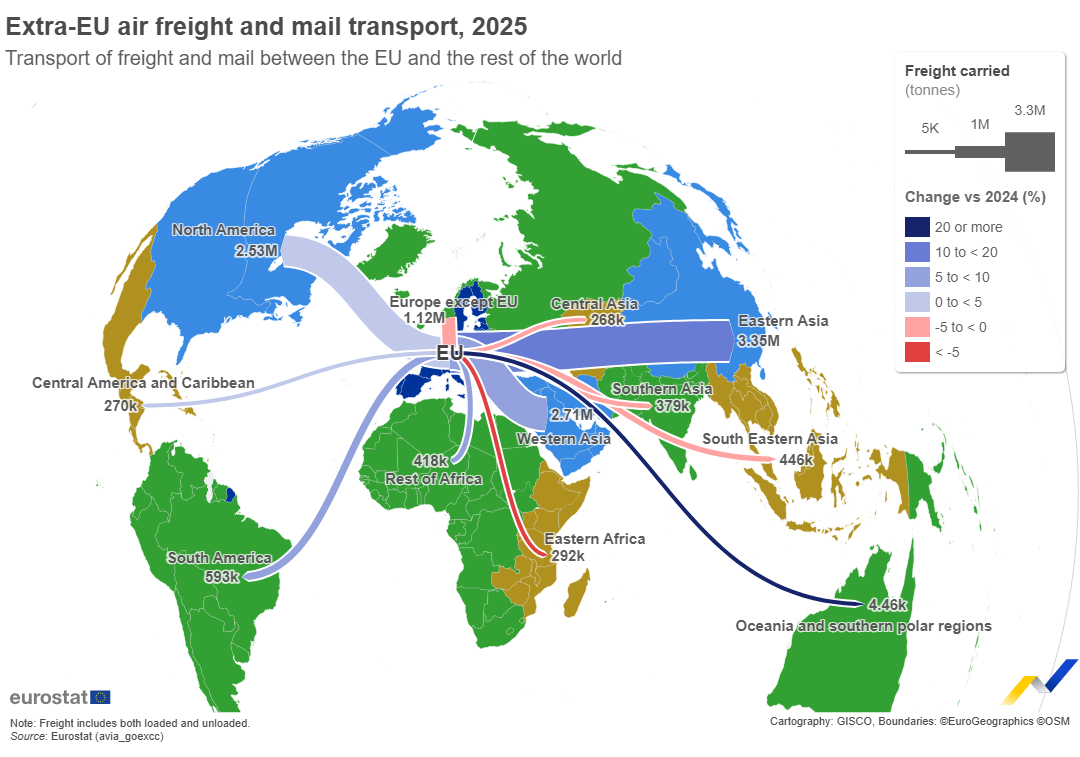
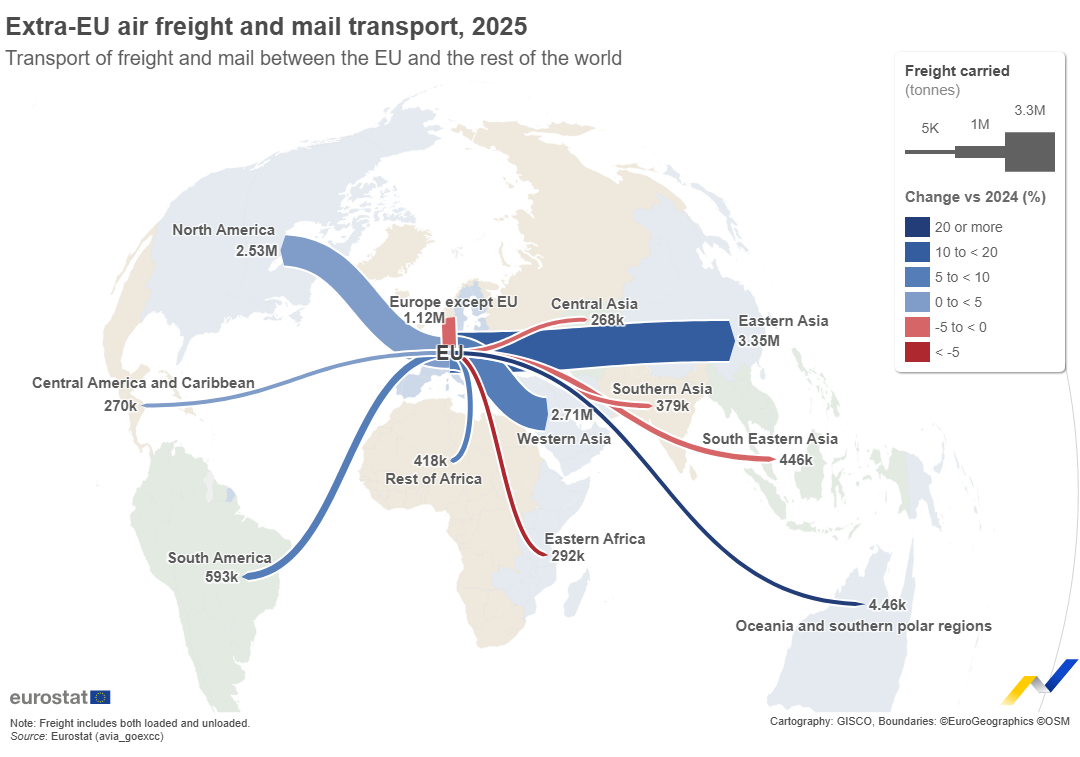
Improve visual hierarchy of 2026 air transport maps

diff --git a/examples/statistics-explained/transport/air/freight/2026/index.html b/examples/statistics-explained/transport/air/freight/2026/index.html
@@ -28,6 +28,7 @@
         <script src="../../../../d3.v7.min.js"></script>
         <script src="./regionLabels.js"></script>
         <script src="./regions.js"></script>
+        <script src="../../regional-palette.js"></script>
         <script src="./configs.js"></script>
         <script>
             const year = 2025
@@ -50,28 +51,9 @@
             fetch(`./airFreightGraph${year}.json`)
                 .then((r) => r.json())
                 .then((graphData) => {
-                    const greys = ['#D3D3D3', '#A9A9A9', '#808080', '#696969', '#36454F'] // Light Gray, Dark Gray: #808080, Dim Gray: #696969, Charcoal: #36454F
-                    const fourColorTheorem = [
-                        '#388AE2', // blue
-                        '#B09120', // yellow
-                        '#33A033', // green
-                        '#E04040', // red
-                    ]
-                    const regionColors = {
-                        'north america': fourColorTheorem[0],
-                        'central america and caribbean': fourColorTheorem[1],
-                        'south america': fourColorTheorem[2],
-                        'eastern africa': fourColorTheorem[1],
-                        'rest of africa': fourColorTheorem[2],
-                        'western asia': fourColorTheorem[0],
-                        'southern asia': fourColorTheorem[2],
-                        'central asia': fourColorTheorem[1],
-                        'eastern asia': fourColorTheorem[0],
-                        'south eastern asia': fourColorTheorem[1],
-                        'Oceania and southern polar regions': fourColorTheorem[2],
-                        EU: '#003399',
-                        'europe except eu': fourColorTheorem[2],
-                    }
+                    const regionByCountry = new Map(
+                        Object.entries(regions).flatMap(([region, codes]) => codes.map((code) => [code, region.toLowerCase()]))
+                    )
 
                     const valuesLabelFormatter = d3.format('.3~s')
 
@@ -177,7 +159,7 @@
                                 return colorFunction(parseChangeToPct(d.target.change))
                             },
                         })
-                        .flowSettings({ opacity: 1, arrows: false, arrowScale: 0.7, outlines: true, outlineWidth: 2, outlineColor: 'white', colorGradient: false, widthGradient: false, topLocations: 0, stack: false })
+                        .flowSettings({ opacity: 1, arrows: false, outlines: true, outlineWidth: 2, outlineColor: 'white', colorGradient: false, widthGradient: false, topLocations: 0, stack: false })
                         //only for when stacked
                         // .flowOrder((a, b) => {
                         //     console.log(a, b);
@@ -222,6 +204,7 @@
                             x: width - 185,
                             y: 50,
                             boxPadding: 10,
+                            boxOpacity: 1,
                             title: 'Freight carried',
                             subtitle: '(tonnes)',
                             flowWidthLegend: {
@@ -259,13 +242,7 @@
                         .callback(() => {
                             // set fill of regions
                             const countries = d3.selectAll('#air-freight-map .em-worldrg path')
-                            countries.style('fill', (d) => {
-                                for (const [regionName, codes] of Object.entries(regions)) {
-                                    if (codes.includes(d.properties.id)) {
-                                        return regionColors[regionName]
-                                    }
-                                }
-                            })
+                            countries.style('fill', (d) => regionalColors[regionByCountry.get(d.properties.id)] ?? '#efefef')
                             // raise labels (fixed in next version of estatmap)
                             const labels = d3.selectAll('#em-labels')
                             labels.raise()

diff --git a/examples/statistics-explained/transport/air/passengers/2026/index.html b/examples/statistics-explained/transport/air/passengers/2026/index.html
@@ -28,6 +28,7 @@
         <script src="../../../../d3.v7.min.js"></script>
         <script src="./regionLabels.js"></script>
         <script src="./regions.js"></script>
+        <script src="../../regional-palette.js"></script>
         <script src="./configs.js"></script>
         <script>
             const year = 2025
@@ -50,29 +51,9 @@
             fetch(`./passengersGraph${year}.json`)
                 .then((r) => r.json())
                 .then((graphData) => {
-                    const greys = ['#D3D3D3', '#A9A9A9', '#808080', '#696969', '#36454F']
-                    const fourColorTheorem = [
-                        '#C8D4DC', // dusty blue-grey
-                        '#D4CCBC', // warm greige
-                        '#C4D0C4', // sage grey
-                        '#D4C8C8', // blush grey
-                    ]
-                    const regionColors = {
-                        'north america': fourColorTheorem[0],
-                        'central america and caribbean': fourColorTheorem[1],
-                        'south america': fourColorTheorem[2],
-                        'eastern africa': fourColorTheorem[0],
-                        'north africa': fourColorTheorem[2],
-                        'rest of africa': fourColorTheorem[1],
-                        'western asia': fourColorTheorem[0],
-                        'southern asia': fourColorTheorem[2],
-                        'central asia': fourColorTheorem[1],
-                        'eastern asia': fourColorTheorem[0],
-                        'South Eastern Asia': fourColorTheorem[1],
-                        'Oceania and southern polar regions': fourColorTheorem[2],
-                        EU: '#8099CC',
-                        'europe except eu': fourColorTheorem[2],
-                    }
+                    const regionByCountry = new Map(
+                        Object.entries(regions).flatMap(([region, codes]) => codes.map((code) => [code, region.toLowerCase()]))
+                    )
 
                     const valuesLabelFormatter = d3.format('.3~s')
 
@@ -176,13 +157,14 @@
                                 return colorFunction(parseChangeToPct(d.target.change))
                             },
                         })
-                        .flowSettings({ opacity: 0.9, arrows: true, arrowScale: 0.7, outlines: true, outlineWidth: 2, outlineColor: 'white', colorGradient: false, widthGradient: false, topLocations: 0, stack: false, nodes: false })
+                        .flowSettings({ opacity: 0.9, arrows: false, outlines: true, outlineWidth: 2, outlineColor: 'white', colorGradient: false, widthGradient: false, topLocations: 0, stack: false, nodes: false })
 
                         // legend
                         .legend({
                             x: width - 205,
                             y: 60,
                             boxPadding: 10,
+                            boxOpacity: 1,
                             title: 'Passengers carried',
                             flowWidthLegend: {
                                 marginTop: -10,
@@ -220,13 +202,7 @@
                         .callback(() => {
                             // set fill of regions
                             const countries = d3.selectAll('#air-passengers-map .em-worldrg path')
-                            countries.style('fill', (d) => {
-                                for (const [regionName, codes] of Object.entries(regions)) {
-                                    if (codes.includes(d.properties.id)) {
-                                        return regionColors[regionName]
-                                    }
-                                }
-                            })
+                            countries.style('fill', (d) => regionalColors[regionByCountry.get(d.properties.id)] ?? '#efefef')
                             // raise labels (fixed in next version of estatmap)
                             const labels = d3.selectAll('#em-labels')
                             labels.raise()

diff --git a/examples/statistics-explained/transport/air/freight/2026/regions.js b/examples/statistics-explained/transport/air/freight/2026/regions.js
@@ -2,9 +2,9 @@ const regions = {
     "north america": ["CA", "US"],
     "central america and caribbean": ["MX", "BZ", "GT", "SV", "HN", "NI", "CR", "PA", "CU", "DO", "HT", "JM", "TT", "BS", "BB", "DM", "GD", "LC", "VC", "AG", "KN"],
     "south america": ["AR", "BO", "BR", "CL", "CO", "EC", "GY", "PY", "PE", "SR", "UY", "VE", "FK"], "eastern africa": ["SO", "MG", "KE", "TZ", "MW", "MZ", "ZM", "ZW", "ET", "ER", "DJ", "UG", "RW", "BI"],
-    "rest of africa": ["DZ", "EG", "LY", "MA", "SD", "TN", "EH", "AO", "BJ", "BW", "BF", "CM", "CV", "CF", "TD", "KM", "CG", "CD", "CI", "DJ", "GQ", "SZ", "GA", "GM", "GH", "GN", "GW", "LS", "LR", "ML", "MR", "MU", "MZ", "NA", "NE", "NG", "RW", "ST", "SN", "SC", "SL", "ZA", "SS", "TG"],
-    "western asia": ["AM", "AZ", "BH", "CY", "GE", "IR", "IQ", "IL", "JO", "KW", "LB", "OM", "PS", "QA", "SA", "SY", "TR", "AE", "YE"],
-    "southern asia": ["AF", "BD", "BT", "XD", "XE", "XH", "XC", "IN", "IR", "MV", "NP", "PK", "LK"],
+    "rest of africa": ["DZ", "EG", "LY", "MA", "SD", "TN", "EH", "AO", "BJ", "BW", "BF", "CM", "CV", "CF", "TD", "KM", "CG", "CD", "CI", "GQ", "SZ", "GA", "GM", "GH", "GN", "GW", "LS", "LR", "ML", "MR", "MU", "NA", "NE", "NG", "ST", "SN", "SC", "SL", "ZA", "SS", "TG"],
+    "western asia": ["AM", "AZ", "BH", "GE", "IR", "IQ", "IL", "JO", "KW", "LB", "OM", "PS", "QA", "SA", "SY", "TR", "AE", "YE"],
+    "southern asia": ["AF", "BD", "BT", "XD", "XE", "XH", "XC", "IN", "MV", "NP", "PK", "LK"],
     "central asia": ["KZ", "KG", "TJ", "TM", "UZ"],
     "eastern asia": ["CN", "HK", "JP", "KP", "KR", "MN", "MO", "TW"],
     "south eastern asia": ["BN", "KH", "ID", "LA", "MY", "MM", "PH", "SG", "TH", "TL", "VN"],

diff --git a/examples/statistics-explained/transport/air/passengers/2026/configs.js b/examples/statistics-explained/transport/air/passengers/2026/configs.js
@@ -2,28 +2,28 @@ const airMapConfigs = {
     "2025": {
         "passengers": {
             "breaks": [
+                -5,
                 0,
                 5,
                 10,
-                15,
                 20
             ],
             "colors": [
-                "#E04040",
-                "#C7CFED",
-                "#A1AEE3",
-                "#7C90D6",
-                "#586FC5",
-                "#15246B"
+                "#ad292f",
+                "#d66567",
+                "#809dca",
+                "#557db7",
+                "#345d9f",
+                "#223d78"
             ],
             "legend": {
                 "title": "Change vs 2024 (%)",
                 "labels": [
-                    "< 0",
+                    "< -5",
+                    "-5 to < 0",
                     "0 to < 5",
                     "5 to < 10",
-                    "10 to < 15",
-                    "15 to < 20",
+                    "10 to < 20",
                     "20 or more"
                 ],
                 "sizeLegend": {

diff --git a/examples/statistics-explained/transport/air/passengers/2026/regions.js b/examples/statistics-explained/transport/air/passengers/2026/regions.js
@@ -56,7 +56,6 @@ const regions = {
     "BI", // Burundi
 
     "SD",
-    "TN",
     "EH",
     "AO",
     "BJ",
@@ -100,7 +99,6 @@ const regions = {
     "AM",
     "AZ",
     "BH",
-    "CY",
     "GE",
     "IR",
     "IQ",
@@ -117,7 +115,7 @@ const regions = {
     "AE",
     "YE"
   ],
-  "southern asia": ["AF", "BD", "BT", "IN", "IR", "MV", "NP", "PK", "LK"],
+  "southern asia": ["AF", "BD", "BT", "IN", "MV", "NP", "PK", "LK"],
   "central asia": ["KZ", "KG", "TJ", "TM", "UZ"],
   "eastern asia": ["CN", "HK", "JP", "KP", "KR", "MN", "MO", "TW"],
   "South Eastern Asia": ["BN", "KH", "ID", "LA", "MY", "MM", "PH", "SG", "TH", "TL", "VN"],
@@ -193,14 +191,5 @@ const regions = {
     "RU",
     "GL",
     "UK"
-  ],
-  "eu": [
-    "AT", "BE", "BG", "HR", "CY",
-    "CZ", "DK", "EE", "FI", "FR",
-    "DE", "EL", "HU", "IE", "IT",
-    "LV", "LT", "LU", "MT", "NL",
-    "PL", "PT", "RO", "SK", "SI",
-    "ES", // Spain
-    "SE"  // Sweden
   ]
 }

diff --git a/examples/statistics-explained/transport/air/regional-palette.js b/examples/statistics-explained/transport/air/regional-palette.js
@@ -1,0 +1,18 @@
+const regionalPalette = ['#e4eaef', '#eee8dd', '#e2eae2', '#cdd9e9']
+
+const regionalColors = {
+    'north america': regionalPalette[0],
+    'central america and caribbean': regionalPalette[1],
+    'south america': regionalPalette[2],
+    'eastern africa': regionalPalette[0],
+    'north africa': regionalPalette[2],
+    'rest of africa': regionalPalette[1],
+    'western asia': regionalPalette[0],
+    'southern asia': regionalPalette[1],
+    'central asia': regionalPalette[2],
+    'eastern asia': regionalPalette[0],
+    'south eastern asia': regionalPalette[2],
+    'oceania and southern polar regions': regionalPalette[0],
+    'europe except eu': regionalPalette[1],
+    eu: regionalPalette[3],
+}

diff --git a/examples/statistics-explained/transport/air/freight/2026/configs.js b/examples/statistics-explained/transport/air/freight/2026/configs.js
@@ -9,12 +9,12 @@ const airMapConfigs = {
                 20
             ],
             "colors": [
-                "#E04040",
-                "#FFA3A3",
-                "#C1C9EB",
-                "#93A2DC",
-                "#677CD2",
-                "#15246B"
+                "#ad292f",
+                "#d66567",
+                "#809dca",
+                "#557db7",
+                "#345d9f",
+                "#223d78"
             ],
             "legend": {
                 "title": "Change vs 2024 (%)",

diff --git a/examples/statistics-explained/transport/air/passengers/2026/passengers.css b/examples/statistics-explained/transport/air/passengers/2026/passengers.css
@@ -16,7 +16,6 @@
 
 .em-legend-background {
     filter: drop-shadow(1px 1px 1px rgba(0, 0, 0, 0.5)) !important;
-    opacity: 0.9;
 }
 
 #air-passengers-map .em-worldbn,

diff --git a/examples/statistics-explained/transport/air/freight/2026/air-freight.css b/examples/statistics-explained/transport/air/freight/2026/air-freight.css
@@ -16,7 +16,6 @@
 
 .em-legend-background {
     filter: drop-shadow(1px 1px 1px rgba(0, 0, 0, 0.5)) !important;
-    opacity: 0.9;
 }
 
 #air-freight-map .em-worldbn,

diff --git a/AGENTS.md b/AGENTS.md
@@ -269,13 +269,16 @@ Every map type that mutes national borders in `src/css/layers/*.css` (and world 
   `<g>` containers. Keep `.em-insets-image .em-inset { overflow: visible; }`: compact scale bars
   such as Svalbard's extend beyond the inset viewport and are otherwise silently clipped.
 
-## Statistics Explained maritime maps
+## Statistics Explained transport maps
 
 - Edition folders use the dissemination year. Map titles and data use the reference year
   in the supplied workbook. Keep legacy page URLs working when archiving an edition.
 - The archived maritime world-flow pages use the main `build/eurostatmap.js` bundle. The old
   Statistics Explained bundle can fail on current world geometry with an undefined `features`
   error. Apply label offsets to the matching `em-label-halo-*` IDs too, so the white halos stay aligned in PNG exports.
+- The 2026 extra-EU air maps share a muted regional palette in `examples/statistics-explained/transport/air/regional-palette.js`.
+  When changing country groups or fills, check for duplicate country assignments and verify that groups sharing
+  a border arc in the GISCO world geometry have distinct fills.
 
 ## Keep this file current for the next agent
 
